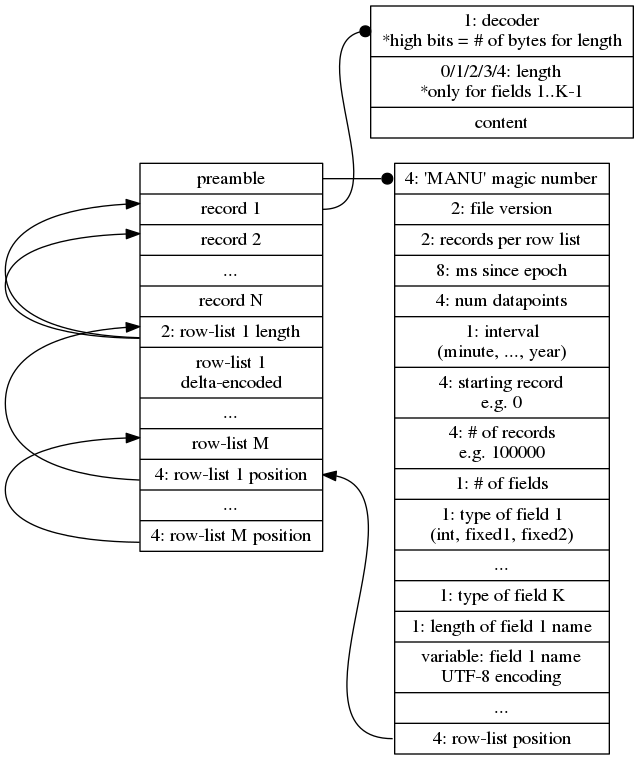
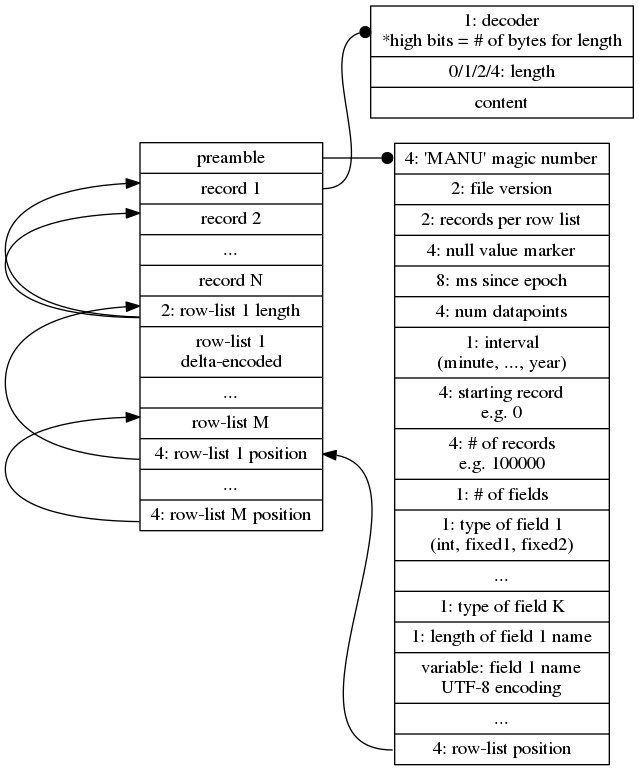
format: variable-length size fields
This drops 1 hour of pageview data from 13M to 8.7M

Still fairly inefficient, but it means a month of
744 1-hour-long files would be about ~7GB, which is
probably OK (esp if we rollup to the day level, then
the working set can probably be reduced even further)

diff --git a/format/src/main/java/com/cldellow/manu/format/Writer.java b/format/src/main/java/com/cldellow/manu/format/Writer.java
@@ -1,7 +1,7 @@
 package com.cldellow.manu.format;
 
 import me.lemire.integercompression.IntWrapper;
-import me.lemire.integercompression.differential.*;
+import me.lemire.integercompression.differential.IntegratedIntegerCODEC;
 
 import java.io.*;
 import java.util.Iterator;
@@ -20,8 +20,8 @@ public class Writer {
             String[] fieldNames,
             FieldType[] fieldTypes,
             Iterator<Record> records) throws FileNotFoundException, IOException, Exception {
-        if(fieldNames.length != fieldTypes.length)
-            throw new  IllegalArgumentException(
+        if (fieldNames.length != fieldTypes.length)
+            throw new IllegalArgumentException(
                     String.format(
                             "Number of field names (%d) does not match number of field types (%d).",
                             fieldNames.length,
@@ -45,19 +45,19 @@ public class Writer {
             rowListPointerPosition = dos.size();
             dos.writeInt(0); // write a dummy value so the space is allocated
 
-            while(records.hasNext()) {
-                if(currentRecord == numRecords)
+            while (records.hasNext()) {
+                if (currentRecord == numRecords)
                     throwRecordNumberException(currentRecord, numRecords);
 
                 recordPositions[currentRecord] = dos.size();
                 Record record = records.next();
-                if(record != null)
+                if (record != null)
                     writeRecord(currentRecord, numFields, numDatapoints, dos, record, tmpArray);
                 else {
                     // If it's the first record in this rowlist, use negative to mark null,
                     // (so we can invert it to get the start of data).
                     // Otherwise, use the previous record's position.
-                    if(currentRecord % rowListSize == 0)
+                    if (currentRecord % rowListSize == 0)
                         recordPositions[currentRecord] *= -1;
                     else
                         recordPositions[currentRecord] = recordPositions[currentRecord - 1];
@@ -65,24 +65,24 @@ public class Writer {
                 currentRecord++;
             }
 
-            IntegratedIntegerCODEC codec =  Common.getRowListCodec();
-            for(int i = 0; i < numRecords; i += rowListSize) {
+            IntegratedIntegerCODEC codec = Common.getRowListCodec();
+            for (int i = 0; i < numRecords; i += rowListSize) {
                 IntWrapper inputPos = new IntWrapper(i);
                 IntWrapper outputPos = new IntWrapper(0);
                 int howMany = Math.min(numRecords - i, rowListSize);
                 int start = recordPositions[i];
-                for(int k = i+1; k < i + howMany; k++) {
+                for (int k = i + 1; k < i + howMany; k++) {
                     recordPositions[k] -= start;
                     start += recordPositions[k];
                 }
                 codec.compress(recordPositions, inputPos, howMany, tmpArray, outputPos);
                 rowListPositions[i / rowListSize] = dos.size();
                 dos.writeShort(outputPos.get());
-                for(int j = 0; j < outputPos.get(); j++)
+                for (int j = 0; j < outputPos.get(); j++)
                     dos.writeInt(tmpArray[j]);
             }
             rowListOffset = dos.size();
-            for(int i = 0; i < rowListPositions.length; i++)
+            for (int i = 0; i < rowListPositions.length; i++)
                 dos.writeInt(rowListPositions[i]);
         } finally {
             dos.flush();
@@ -95,43 +95,59 @@ public class Writer {
         raf.writeInt(rowListOffset);
         raf.close();
 
-        if(numRecords != currentRecord)
+        if (numRecords != currentRecord)
             throwRecordNumberException(currentRecord, numRecords);
     }
 
     private static void writeRecord(int currentRecord, int numFields, int numDatapoints, DataOutputStream dos, Record r, int[] tmpArray) throws IOException {
         final IntWrapper outPos = new IntWrapper(0);
 
-        for(int field = 0; field < numFields; field++) {
+        for (int field = 0; field < numFields; field++) {
             FieldEncoder fe = r.getEncoder(field);
             outPos.set(0);
             int[] values = r.getValues(field);
 
-            if(values.length != numDatapoints)
+            if (values.length != numDatapoints)
                 throw new IllegalArgumentException(String.format(
                         "record %d, field %d has %d values; expected %d",
                         currentRecord, field, values.length, numDatapoints));
             fe.encode(values, tmpArray, outPos);
-            // TODO: add variable length size encoding
-            dos.writeByte(fe.getId());
-            if(fe.isVariableLength())
-                dos.writeInt(outPos.get());
-            for(int i = 0; i < outPos.get(); i++) {
+
+            // If the encoder has a fixed length, don't write a size field.
+            // Otherwise, write a size field using a byte, short or int
+            // as appropriate.
+            int length = 0;
+            if (fe.isVariableLength())
+                length = outPos.get();
+
+            byte newId = LengthOps.encode((byte) fe.getId(), length);
+            dos.writeByte(newId);
+            if (fe.isVariableLength()) {
+                int lengthSize = LengthOps.lengthSize(length);
+                if (lengthSize == 0)
+                    dos.writeByte(length);
+                else if (lengthSize == 1)
+                    dos.writeShort(length);
+                else
+                    dos.writeInt(length);
+            }
+            for (int i = 0; i < outPos.get(); i++) {
                 dos.writeInt(tmpArray[i]);
             }
         }
     }
+
     private static void writePreamble(
-                DataOutputStream dos,
-                short rowListSize,
-                int nullValue,
-                long epochMs,
-                int numDatapoints,
-                Interval interval,
-                int recordOffset,
-                int numRecords,
-                String[] fieldNames,
-                FieldType[] fieldTypes) throws IOException {
+            DataOutputStream dos,
+            short rowListSize,
+            int nullValue,
+            long epochMs,
+            int numDatapoints,
+            Interval interval,
+            int recordOffset,
+            int numRecords,
+            String[] fieldNames,
+            FieldType[] fieldTypes) throws IOException {
         dos.writeByte('M');
         dos.writeByte('A');
         dos.writeByte('N');
@@ -144,15 +160,15 @@ public class Writer {
         dos.writeByte(interval.getValue());
         dos.writeInt(recordOffset);
         dos.writeInt(numRecords);
-        dos.writeByte((byte)fieldNames.length);
-        for(FieldType fieldType : fieldTypes) {
+        dos.writeByte((byte) fieldNames.length);
+        for (FieldType fieldType : fieldTypes) {
             dos.writeByte(fieldType.getValue());
         }
 
-        for(String name : fieldNames) {
+        for (String name : fieldNames) {
             byte[] utf = name.getBytes("UTF-8");
             dos.writeByte(utf.length);
-            for(int i = 0; i < utf.length; i++)
+            for (int i = 0; i < utf.length; i++)
                 dos.writeByte(utf[i]);
 
         }

diff --git a/format/src/test/java/com/cldellow/manu/format/LengthOpsTest.java b/format/src/test/java/com/cldellow/manu/format/LengthOpsTest.java
@@ -1,0 +1,67 @@
+package com.cldellow.manu.format;
+
+import com.pholser.junit.quickcheck.Property;
+import com.pholser.junit.quickcheck.generator.InRange;
+import com.pholser.junit.quickcheck.runner.JUnitQuickcheck;
+import org.junit.Test;
+import org.junit.runner.RunWith;
+
+import static org.hamcrest.Matchers.*;
+import static org.junit.Assert.*;
+import static org.junit.Assume.assumeThat;
+
+@RunWith(JUnitQuickcheck.class)
+public class LengthOpsTest {
+    @Test
+    public void decodeId() {
+        byte id = 12;
+        assertEquals(id, LengthOps.decodeId(LengthOps.encode(id, 1)));
+    }
+
+    @Property
+    public void encodeTooBigId(byte id) {
+        assumeThat((int) id, anyOf(lessThan(0), greaterThan(63)));
+
+        boolean threw = false;
+
+        try {
+            LengthOps.encode(id, 0);
+        } catch (Exception e) {
+            threw = true;
+        }
+
+        assertTrue(threw);
+    }
+
+    @Property
+    public void encodeTooSmallLen(@InRange(max = "-1") int len) {
+        boolean threw = false;
+
+        try {
+            LengthOps.encode((byte)0, len);
+        } catch (Exception e) {
+            threw = true;
+        }
+
+        assertTrue(threw);
+    }
+
+
+    @Property
+    public void decodeIdAnyLen(@InRange(min = "0", max = "63") int id, @InRange(min = "0") int len) {
+        byte encoded = LengthOps.encode((byte) id, len);
+        assertEquals(id, LengthOps.decodeId(encoded));
+
+        // verify the len can fit in the number of bytes allocated
+        int lengthSize = LengthOps.decodeLengthSize(encoded);
+        int newLen = len;
+
+        assertThat(lengthSize, anyOf(is(1), is(2), is(4)));
+        if(lengthSize == 1)
+            newLen = (byte)newLen;
+        if(lengthSize == 2)
+            newLen = (short)newLen;
+
+        assertEquals(len, newLen);
+    }
+}

diff --git a/format/src/main/java/com/cldellow/manu/format/LengthOps.java b/format/src/main/java/com/cldellow/manu/format/LengthOps.java
@@ -1,0 +1,37 @@
+package com.cldellow.manu.format;
+
+public class LengthOps {
+    public static byte encode(byte id, int len) {
+        if (id > 63 || id < 0)
+            throw new IllegalArgumentException("id " + id + " is out of range (must be 0..63)");
+
+        int bytesNeeded = lengthSize(len);
+        return (byte) (id | (bytesNeeded << 6));
+    }
+
+    public static int lengthSize(int len) {
+        if (len < 0)
+            throw new IllegalArgumentException("len " + len + " is out of range (must be >= 0)");
+
+        int bytesNeeded = 0;
+        // NB: we map 1..4 to 0..3 for ease of bit shifting
+        // Also we only store 1, 2, or 4-byte sizes as they map
+        // neatly to byte, short and int.
+        if (len > 65535)
+            bytesNeeded = 3;
+        else if (len > 255)
+            bytesNeeded = 1;
+        else
+            bytesNeeded = 0;
+        return bytesNeeded;
+    }
+
+    public static byte decodeId(byte encoded) {
+        return (byte) (encoded & 0b00111111);
+    }
+
+    public static byte decodeLengthSize(byte encoded) {
+        return (byte) (((encoded >> 6) & 0b00000011) + 1);
+    }
+
+}

diff --git a/format/src/main/java/com/cldellow/manu/format/EncodedRecord.java b/format/src/main/java/com/cldellow/manu/format/EncodedRecord.java
@@ -34,10 +34,18 @@ public class EncodedRecord implements Record {
 
         for (int i = 0; i < numFields; i++) {
             fieldOffsets[i] = buffer.position();
-            int encoderId = buffer.get();
+            byte encoderIdRaw = buffer.get();
+            int encoderId = LengthOps.decodeId(encoderIdRaw);
             encoderIds[i] = encoderId;
             if (ThreadEncoders.get()[encoderId].isVariableLength()) {
-                int length = buffer.getInt();
+                int lengthSize = LengthOps.decodeLengthSize(encoderIdRaw);
+                int length;
+                if (lengthSize == 1)
+                    length = (int)(buffer.get() & 0xFF);
+                else if (lengthSize == 2)
+                    length = (int)(buffer.getShort() & 0xFFFF);
+                  else
+                    length = buffer.getInt();
                 fieldLengths[i] = length;
             } else {
                 fieldLengths[i] = ThreadEncoders.get()[encoderId].getLength();

diff --git a/CHANGELOG.md b/CHANGELOG.md
@@ -1,7 +1,7 @@
 # 0.2.1
 
 all: support "sparse" files, where not all keys have records
-`manu-format`: support declaring a sentinel value that signals null; fix incorrect decoding of lossily encoded data
+`manu-format`: support declaring a sentinel value that signals null; support variable length size field; fix incorrect decoding of lossily encoded data
 `manu-cli`: `read` is faster
 `manu-serve`: support null fields
 
